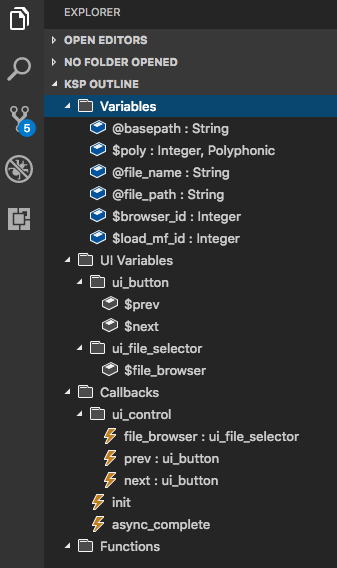
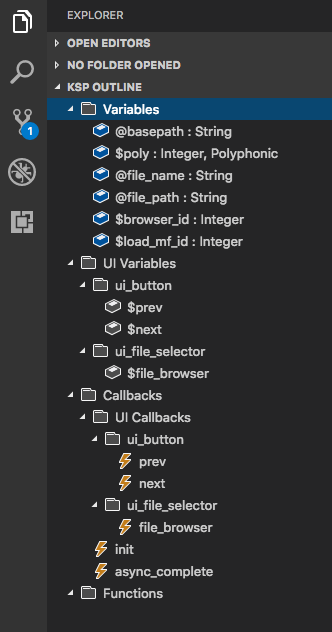
アウトラインビュー: UIコールバックの階層化

Changed region(s): [[0.0, 0.0599, 1.0, 0.9877], [0.1807, 0.0, 0.3916, 0.0299], [0.0301, 0.0, 0.1205, 0.0599]]

diff --git a/src/features/KSPOutlineProvider.ts b/src/features/KSPOutlineProvider.ts
@@ -266,13 +266,16 @@ TODO
             const uiVariableTreeChildren: { [key:string]: KSPSymbolNode } = {};
 
             const callbackTree: KSPSymbolNode   = new KSPSymbolNode( 'Callbacks', TREE_ITEM_COLLAPSED, rootNode, null );
-            const callbackTreeChildren: { [key:string]: KSPSymbolNode } = {};
+            const callbackTreeChildren: { [key:string]: KSPSymbolNode }   = {};
+            const callbackUiTree: KSPSymbolNode   = new KSPSymbolNode( 'UI Callbacks', TREE_ITEM_COLLAPSED, callbackTree, null );
+            const callbackTreeUiChildren: { [key:string]: KSPSymbolNode } = {};
 
             const functionTree: KSPSymbolNode   = new KSPSymbolNode( 'Functions', TREE_ITEM_COLLAPSED, rootNode, null );
 
             variableTree.iconPath      = ICON_FOLDER;
             uiVariableTree.iconPath    = ICON_FOLDER;
             callbackTree.iconPath      = ICON_FOLDER;
+            callbackUiTree.iconPath    = ICON_FOLDER;
             functionTree.iconPath      = ICON_FOLDER;
 
             for( const v of table )
@@ -319,37 +322,25 @@ TODO
                     const key: string = v.KspSymbol.name;
                     child.label = v.KspSymbol.uiVariableName;
                     child.iconPath = ICON_CALLBACK;
+                    child.parrent  = callbackTree;
 
-                    this.addNodeToSubTree({
-                        value: v,
-                        key: key,
-                        child: child,
-                        parrent: callbackTree,
-                        subTree: callbackTreeChildren,
-                        extCond:
-                        () => {
-                            return v.KspSymbol.uiVariableName ? true : false;
-                        },
-                        onKeyAdded:
-                        () => {
-                            child.label += " : " + v.KspSymbol.uiVariableType;
-                        },
-                        onKeyExists:
-                        () => {
-                            child.label += " : " + v.KspSymbol.uiVariableType;
-                        },
-                        onKeyNotExists:
-                        () => {
-                            child.label = v.KspSymbol.name;
-                        },
-                        finalize:
-                        ()=>
-                        {
-                            child.iconPath = ICON_CALLBACK;
-                        }
-                    });
-                    // no longer reference parrent this case ( managed on callbackTreeTreeChild )
-                    child.parrent = null;
+                    if( v.KspSymbol.uiVariableName )
+                    {
+                        this.addNodeToSubTree({
+                            value: v,
+                            key: v.KspSymbol.uiVariableType,
+                            child: child,
+                            parrent: callbackUiTree,
+                            subTree: callbackTreeUiChildren,
+                        });
+                        // no longer reference parrent this case ( managed on callbackTreeTreeChild )
+                        child.parrent = null;
+                    }
+                    else
+                    {
+                        child.label = v.name;
+                    }
+
                 }
                 else if( type == KSPSymbolType.USER_FUNCTION )
                 {
@@ -366,7 +357,10 @@ TODO
             } //  ~for( const v of table )
 
             this.sortAndAddChildrenTo( uiVariableTreeChildren, uiVariableTree );
-            this.sortAndAddChildrenTo( callbackTreeChildren, callbackTree, true );
+            this.sortAndAddChildrenTo( callbackTreeUiChildren, callbackUiTree );
+            this.sortAndAddChildrenTo( callbackTreeChildren, callbackTree );
+
+            callbackTree.children.unshift( callbackUiTree );
 
             result.push( variableTree );
             result.push( uiVariableTree );
